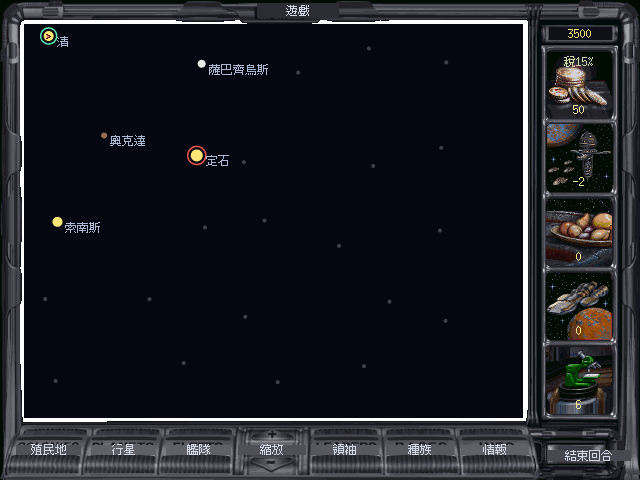
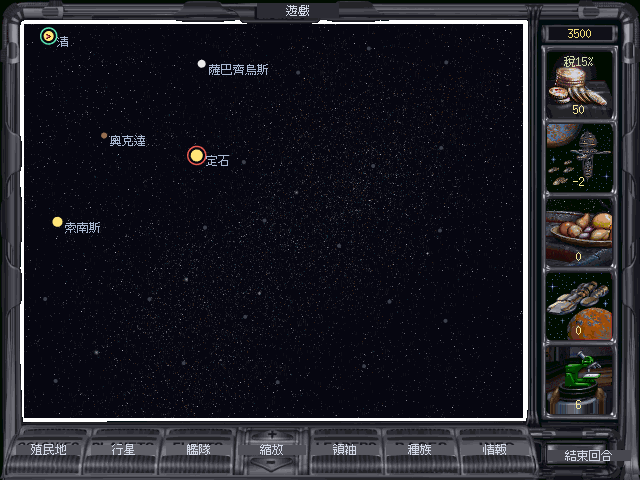
feat(galaxy): 星圖鋪上原版的三層視差星空,不再是一片純黑
星圖區先前是 RGBA{6,6,16} 的純黑佔位。原版 Draw_Paralax_ @ 0x8500F 底下鋪的
是三層星空(STARBG.LBX 資產 0/1/2,實測皆 640×480),各以不同速率捲動並
環繞平鋪四次(x−640 / y−480 那三次是接回來的部分)。位移是三對全域變數,
速率不同——這就是視差。

remake 的星圖不捲動(固定全銀河檢視),三個位移都是 0,環繞平鋪的另外三次
全在畫布外,等於三層各貼一次 (0,0)。做出捲動時要把那四次補回來。

⚠ 底色不能省,踩過一次:第一版改成「有原版資產就不填」,結果整片星圖變成
白底黑點。原因不是調色盤錯——探針量出層 0 最多的索引 2/3/5 對到 (16,16,24)
/(24,24,32)/(44,44,52),本來就是極暗的藍灰點疊在透明上;底色一拿掉,透明處
就露出底下 buffer0.lbx#0 的框架美術。原版也是先 Fill 再貼視差層。

⚠ 這條規則測不到:ebiten 在 game loop 之外不准 Image.At()
(ui: ReadPixels cannot be called before the game starts),所以「星圖框內是不是
純黑」沒辦法寫成單元測試,只能靠截圖廊第 04 張驗收。規則寫在 starBGFill 的
註解與 gap report 第 33 項。

順帶修掉 decodeAsset 對 nil *assets.Resolver 的 nil 解參考——畫面層的降級路徑
本來就該容許「資料夾不完整」。starBGImage / shipIconImage / colonyScreenImage
三個都補了守衛,並加了回歸測試。

星雲(Draw_Nebulae_)仍未做,但那是資料模型缺口不是繪圖缺口:它要銀河生成
先產出星雲表(位置 + 型別),remake 的星系產生器目前沒有這個欄位。

diff --git a/cmd/moo2/starbg.go b/cmd/moo2/starbg.go
@@ -1,0 +1,94 @@
+package main
+
+// starbg.go:星圖的**視差星空背景**(原版 `Draw_Paralax_` @ 0x8500F)。
+//
+// remake 先前把星圖區塗成一片 `RGBA{6,6,16}` 的純黑——那是佔位。原版底下鋪的是三層
+// 會各自以不同速度捲動的星空圖。
+//
+// ============ 一手來源(反組譯)============
+//
+// `Draw_Paralax_` 的結構完全規則,三層一模一樣只差來源與位移:
+//
+//	sub_8FD71(edx=0x16, ebx=0x20F, ecx=0x1A5)   ; 裁切區:x 22..527、y ..421
+//	for layer in 0, 1, 2:
+//	    img = STARBG.LBX 資產 layer
+//	    Draw(x,       y      )
+//	    Draw(x − 640, y      )                   ; 0x280 = 640
+//	    Draw(x − 640, y − 480)                   ; 0x1E0 = 480
+//	    Draw(x,       y − 480)
+//
+// 每張圖就是 640×480(實測 STARBG.LBX 0/1/2 皆是),四次貼圖是**環繞平鋪**:捲動時
+// 從右邊/下面出去的部分要從左邊/上面接回來。位移取自三對全域變數:
+//
+//	層 0:x = word_199980、y = word_19997E
+//	層 1:x = word_19998A、y = word_19998E
+//	層 2:x = word_199984、y = word_199986
+//
+// 三對各自更新,更新速率不同 —— 這就是「視差」:近的那層捲得快,遠的慢。
+//
+// ⚠ **remake 的星圖不捲動**(固定全銀河檢視),所以三個位移都是 0,環繞平鋪的另外三次
+// 全部落在畫布外,等於三層各貼一次 (0,0)。真的做出捲動時,要把那四次貼圖補回來,
+// 而不是改圖或改位移公式。
+//
+// ⚠ 裁切是必要的:圖是 640×480、星圖框只有 24..523 × 24..418,不裁會蓋掉左右的框架美術。
+
+import (
+	"image"
+	"image/color"
+
+	"github.com/hajimehoshi/ebiten/v2"
+	"github.com/hajimehoshi/ebiten/v2/vector"
+)
+
+const (
+	starBGLBX    = "starbg.lbx"
+	starBGLayers = 3 // 原版就是三層(Draw_Paralax_ 硬寫的三段)
+)
+
+// starBGImage 解出第 n 層星空並快取。STARBG 沒有內嵌調色盤,靠 buffer0 基底。
+func (b *sceneBuilder) starBGImage(layer int) *ebiten.Image {
+	if b.res == nil {
+		return nil // 沒有資產解析器(單元測試等):畫面自己降級,不要 panic
+	}
+	key := starBGLBX + ":" + string(rune('0'+layer))
+	if im, hit := b.colBldgCache[key]; hit {
+		return im
+	}
+	if b.colBldgCache == nil {
+		b.colBldgCache = map[string]*ebiten.Image{}
+	}
+	var img *ebiten.Image
+	if im, err := decodeAsset(b.res, starBGLBX, layer); err == nil && len(im.Frames) > 0 {
+		if pal, err := resolvePalette(b.res, im, paletteChain{{"buffer0.lbx", 0}}); err == nil {
+			img = ebiten.NewImageFromImage(im.Frames[0].ToRGBADropTranslucent(pal, im.KeyColor()))
+		}
+	}
+	b.colBldgCache[key] = img
+	return img
+}
+
+// starBGFill 是三層星空底下的純黑底。
+//
+// ⚠ 這一層**不能省**,而且踩過:三層星空全都是**稀疏的點疊在透明上**——層 0 最多的三種
+// 索引是 2/3/5,對到 (16,16,24) / (24,24,32) / (44,44,52) 這種極暗藍灰,本來就是要疊在
+// 黑底上才看得出是「遠方的星塵」。把底色拿掉改成「有資產就不填」的話,透明處會露出底下
+// `buffer0.lbx#0` 的框架美術,整片星圖變成白底黑點。
+// 原版也是先 `Fill` 再貼視差層(`Draw_Main_Screen_Filled_`)。
+var starBGFill = color.RGBA{6, 6, 16, 255}
+
+// drawStarmapBackground 鋪星圖底:先純黑,再疊三層星空(取不到資產就只有純黑)。
+func (b *sceneBuilder) drawStarmapBackground(dst *ebiten.Image) {
+	vector.DrawFilledRect(dst, starVX0, starVY0, starVX1-starVX0, starVY1-starVY0, starBGFill, false)
+	clip, ok := dst.SubImage(image.Rect(starVX0, starVY0, starVX1, starVY1)).(*ebiten.Image)
+	if !ok {
+		return
+	}
+	for layer := 0; layer < starBGLayers; layer++ {
+		im := b.starBGImage(layer)
+		if im == nil {
+			continue
+		}
+		// 位移固定 0(見檔頭):貼 (0,0) 一次就好,環繞平鋪的另外三次全在畫布外。
+		clip.DrawImage(im, &ebiten.DrawImageOptions{})
+	}
+}

diff --git a/cmd/moo2/starbg_test.go b/cmd/moo2/starbg_test.go
@@ -1,0 +1,49 @@
+package main
+
+import (
+	"testing"
+
+	"github.com/hajimehoshi/ebiten/v2"
+)
+
+// starbg_test.go:星圖底的護欄。
+//
+// ⚠ **底色那條規則測不到,只能靠截圖驗收**:ebiten 在 game loop 之外不准 `Image.At()`
+// (`ui: ReadPixels cannot be called before the game starts`),所以「星圖框內是不是純黑底」
+// 沒辦法寫成單元測試。規則本身寫在 `starBGFill` 的註解裡,驗收看截圖廊第 04 張。
+//
+// 為什麼那條規則重要:三層星空**全都是稀疏的點疊在透明上**(層 0 最多的索引 2/3/5 對到
+// (16,16,24) 這種極暗藍灰),底下沒有黑底的話,透明處會露出 `buffer0.lbx#0` 的框架美術
+// ——實際踩過一次,整片星圖變成白底黑點。
+
+// TestStarmapBackgroundSurvivesMissingAssets:沒有資產解析器時不能 panic。
+//
+// 這條擋的是實際踩過的坑:`decodeAsset` 對 nil `*assets.Resolver` 會 nil 解參考,
+// 而畫面層的降級路徑本來就該容許「資料夾不完整」。
+func TestStarmapBackgroundSurvivesMissingAssets(t *testing.T) {
+	defer func() {
+		if r := recover(); r != nil {
+			t.Fatalf("沒有資產時不該 panic,實得 %v", r)
+		}
+	}()
+	b := &sceneBuilder{}
+	b.drawStarmapBackground(ebiten.NewImage(moo2ScreenW, moo2ScreenH))
+
+	if im := b.starBGImage(0); im != nil {
+		t.Error("沒有資產解析器時 starBGImage 應回 nil")
+	}
+	if b.drawShipIconAt(ebiten.NewImage(64, 64), 0, 32, 32) {
+		t.Error("沒有資產解析器時 drawShipIconAt 應回 false,讓呼叫端退回方塊")
+	}
+}
+
+// TestStarBGLayerCount:原版 `Draw_Paralax_` 硬寫三段(STARBG.LBX 資產 0/1/2),
+// 改這個數字等於改原版行為,要有反組譯依據。
+func TestStarBGLayerCount(t *testing.T) {
+	if starBGLayers != 3 {
+		t.Errorf("視差層數 = %d,原版是 3(Draw_Paralax_ @ 0x8500F 三段)", starBGLayers)
+	}
+	if starBGLBX != "starbg.lbx" {
+		t.Errorf("來源 = %q,原版是 STARBG.LBX", starBGLBX)
+	}
+}

diff --git a/cmd/moo2/interactive.go b/cmd/moo2/interactive.go
@@ -774,6 +774,8 @@ func (b *sceneBuilder) galaxy() (*overlayScreen, error) {
 		fnt := s.font
 		s.postDraw = func(dst *ebiten.Image) {
 			// 每幀算一次可見性(#13 輕量戰爭迷霧),避免 drawStarmap 逐星重算。
+			// 星圖底:純黑 + 原版 `Draw_Paralax_` 的三層星空(見 starbg.go)。
+			b.drawStarmapBackground(dst)
 			drawStarmap(dst, fnt, sess.Stars, sess.SelectedStar, sess.VisibleStars())
 			if fnt != nil {
 				// 狀態數字畫進原版右側資訊格(openorion2 galaxy.cpp:1552-1588 硬編位置,
@@ -933,9 +935,10 @@ func starScreenPos(st shell.Star) (int, int) {
 // fog 純視覺(diff 全量表 #13):對 !visible[i] 的星,不畫星名(未知)、不畫擁有環(未偵測不知
 // 道歸屬)、星點降低亮度變暗淡小點;可見星維持原本全繪。刻意不 gate 任何操作——選星/派艦/殖民
 // /轟炸等既有流程完全不受影響,玩家仍可對著霧裡的暗星點擊派艦探索。
+// drawStarmap 畫星圖上的星球。**底色與星空背景由 `drawStarmapBackground` 負責**,
+// 這裡不再自己塗底——順序寫死在呼叫端,免得兩邊各塗一次互相蓋掉。
 func drawStarmap(dst *ebiten.Image, fnt *uifont.Font, stars []shell.Star, selected int, visible []bool) {
 	const vx0, vy0, vx1, vy1 = starVX0, starVY0, starVX1, starVY1
-	vector.DrawFilledRect(dst, vx0, vy0, vx1-vx0, vy1-vy0, color.RGBA{6, 6, 16, 255}, false)
 	for i, st := range stars {
 		seen := visible == nil || (i < len(visible) && visible[i])
 

diff --git a/cmd/moo2/colonysurface.go b/cmd/moo2/colonysurface.go
@@ -529,6 +529,9 @@ func (b *sceneBuilder) drawColonyTerrain(dst *ebiten.Image, idx int) {
 // 否則熔岩裂縫會變成一片洋紅(⚠ 與第 29 項那次的洋紅**不同原因**——那次是 index ≥ 0xF0)。
 // COLONY.LBX 的衛星圖完全沒有內嵌盤,整組都得靠 chain。
 func (b *sceneBuilder) colonyScreenImage(lbxName string, asset int, chain paletteChain) *ebiten.Image {
+	if b.res == nil {
+		return nil // 沒有資產解析器(單元測試等):畫面自己降級,不要 panic
+	}
 	key := lbxName + ":" + strconv.Itoa(asset)
 	if im, hit := b.colBldgCache[key]; hit {
 		return im

diff --git a/cmd/moo2/shipicon.go b/cmd/moo2/shipicon.go
@@ -70,6 +70,9 @@ func shipIconAsset(flag int) int {
 // shipIconImage 解出艦隊圖示並快取(取不到回 nil,呼叫端自己退回方塊)。
 func (b *sceneBuilder) shipIconImage(flag int) *ebiten.Image {
 	asset := shipIconAsset(flag)
+	if b.res == nil {
+		return nil // 沒有資產解析器(單元測試等):畫面自己降級,不要 panic
+	}
 	key := shipIconLBX + ":" + strconv.Itoa(asset)
 	if im, hit := b.colBldgCache[key]; hit {
 		return im

diff --git a/docs/re/01-gap-report.md b/docs/re/01-gap-report.md
@@ -1217,8 +1217,8 @@ remake 的新遊戲流程順序與此一致;`Main_Screen_ → Do_Colony_Screen_`
     | 8 | `Print_Main_Screen_Data_` | 0x87BAE | ⚠ 簡化(右欄五格數字)|
     | 9 | `Draw_Diplomacy_Request_Lights_` | 0x83D06 | ❌ |
 
-    外層 `Draw_Main_Screen_` 另有 `Draw_Nebulae_` @ 0x84F8F 與 `Draw_Paralax_` @ 0x8500F,
-    remake 兩者都沒有——星圖背景目前是純黑。
+    外層 `Draw_Main_Screen_` 另有 `Draw_Nebulae_` @ 0x84F8F 與 `Draw_Paralax_` @ 0x8500F。
+    (視差背景已於第 33 項補上;星雲仍未做。)
 
     ### 艦隊圖示(`Get_Ship_Icon_Pict_Seg_` @ 0xA0D78)
 
@@ -1266,3 +1266,59 @@ remake 的新遊戲流程順序與此一致;`Main_Screen_ → Do_Colony_Screen_`
 
     中文模式 17 張逐像素比對:變的是星圖、命名旗色、軌道轟炸三張(後兩張用 `FlagColors`),
     其餘未變。
+
+33. **星圖視差星空背景**(2026-08-07,第 32 項的續)。
+
+    remake 的星圖區先前是一片 `RGBA{6,6,16}` 純黑,那是佔位。原版底下鋪的是三層星空。
+
+    ### `Draw_Paralax_` @ 0x8500F
+
+    結構完全規則,三層一模一樣只差來源與位移:
+
+    ```
+    sub_8FD71(edx=0x16, ebx=0x20F, ecx=0x1A5)   ; 裁切區 x 22..527、y ..421
+    for layer in 0, 1, 2:
+        img = STARBG.LBX 資產 layer            ; 實測皆 640×480
+        Draw(x,       y      )
+        Draw(x − 640, y      )                  ; 0x280 = 640
+        Draw(x − 640, y − 480)                  ; 0x1E0 = 480
+        Draw(x,       y − 480)
+    ```
+
+    四次貼圖是**環繞平鋪**——捲動時從右邊/下面出去的要從左邊/上面接回來。位移是三對全域:
+
+    | 層 | x | y |
+    |---|---|---|
+    | 0 | `word_199980` | `word_19997E` |
+    | 1 | `word_19998A` | `word_19998E` |
+    | 2 | `word_199984` | `word_199986` |
+
+    三對各自更新且速率不同 —— 這就是視差:近的捲得快、遠的慢。
+
+    ⚠ remake 的星圖不捲動(固定全銀河檢視),三個位移都是 0,環繞平鋪的另外三次全在畫布外,
+    等於三層各貼一次 (0,0)。做出捲動時要把那四次補回來,不是改圖或改公式。
+
+    ### ⚠ 底色不能省(踩過)
+
+    第一版把純黑底改成「有原版資產就不填」,結果整片星圖變成**白底黑點**。
+    原因不是調色盤錯——探針量出來層 0 最多的三個索引是 2/3/5,對到
+    (16,16,24) / (24,24,32) / (44,44,52),**本來就是極暗的藍灰點疊在透明上**。
+    底色一拿掉,透明處就露出底下 `buffer0.lbx#0` 的框架美術。
+    原版也是先 `Fill` 再貼視差層(`Draw_Main_Screen_Filled_`)。
+
+    ⚠ 這條規則**測不到**:ebiten 在 game loop 之外不准 `Image.At()`
+    (`ui: ReadPixels cannot be called before the game starts`),所以「星圖框內是不是純黑」
+    沒辦法寫成單元測試,只能靠截圖廊第 04 張驗收。規則寫在 `starBGFill` 的註解裡。
+
+    ### 順帶修掉一個 nil 解參考
+
+    `decodeAsset` 對 nil `*assets.Resolver` 會 nil 解參考。畫面層的降級路徑本來就該容許
+    「資料夾不完整」,所以 `starBGImage` / `shipIconImage` / `colonyScreenImage` 三個都補了
+    `b.res == nil` 守衛,並加了回歸測試。
+
+    ### 仍是缺口
+
+    - **星雲** `Draw_Nebulae_` @ 0x84F8F:每個星雲 `x = scale(nebula.x − 捲動) + 21`、
+      `y` 同理,圖從 `dword_190298[i*16 + 縮放*4]` 這個快取取。**需要銀河生成先產出星雲表**
+      (位置 + 型別),remake 的星系產生器目前沒有這個欄位——這是資料模型缺口,不是繪圖缺口。
+    - 蟲洞連線、遷移連線、星門、黑洞、外交燈號:同樣都缺對應的資料模型或旗標。

diff --git a/WORKLIST.md b/WORKLIST.md
@@ -187,8 +187,16 @@
     正確順序是 **紅/黃/綠/銀/藍/棕/紫/橙**(第 4 色原版叫 SILVER 不是 White)。
   - 拿掉星圖左上那行「研究:<主題名>」——原版星圖沒有這東西,而且它壓在星星與艦隊圖示上。
     右欄第 5 格(綠燒瓶)改放每回合研究點數,跟其他四格一致。
-  - 順帶把整張星圖的 9 層繪製順序抄進 gap report,標出 remake 各層的完成度
-    (星雲、視差背景、蟲洞連線、星門、黑洞、外交燈號都還沒有)。
+  - 順帶把整張星圖的 9 層繪製順序抄進 gap report,標出 remake 各層的完成度。
+- **星圖視差星空背景**(gap report 第 33 項,同日):星圖區先前是一片純黑佔位,
+  現在鋪的是原版 `Draw_Paralax_` 的三層星空(STARBG.LBX 資產 0/1/2,各 640×480)。
+  原版三層各自以不同速率捲動並環繞平鋪;remake 星圖不捲動,位移固定 0 → 三層各貼一次。
+  - ⚠ **底色不能省**(踩過):三層全是稀疏的暗點疊在透明上,底色一拿掉透明處就露出底下的
+    框架美術,整片星圖變成白底黑點。原版也是先 `Fill` 再貼視差層。
+    這條規則**測不到**(ebiten 在 game loop 外不准 `Image.At()`),只能靠截圖驗收。
+  - 順帶修掉 `decodeAsset` 對 nil resolver 的 nil 解參考(三個新 helper 都補了守衛)。
+  - 仍缺:星雲需要銀河生成先產出星雲表(資料模型缺口,不是繪圖缺口);蟲洞連線、遷移連線、
+    星門、黑洞、外交燈號同理。
   - IDA 的 `-Ohexrays` 這一輪起不來(error code 4,兩次),整項改用手讀 `.asm` 完成。
 - **兩個零值陷阱**(都加了回歸測試):`TechLevel` 零值 = 曲速前 → 舊存檔艦隊全凍住;
   `i18n.English` 是 `Lang` 的零值 → 忘了設 lang 的建構路徑會靜默變英文。
